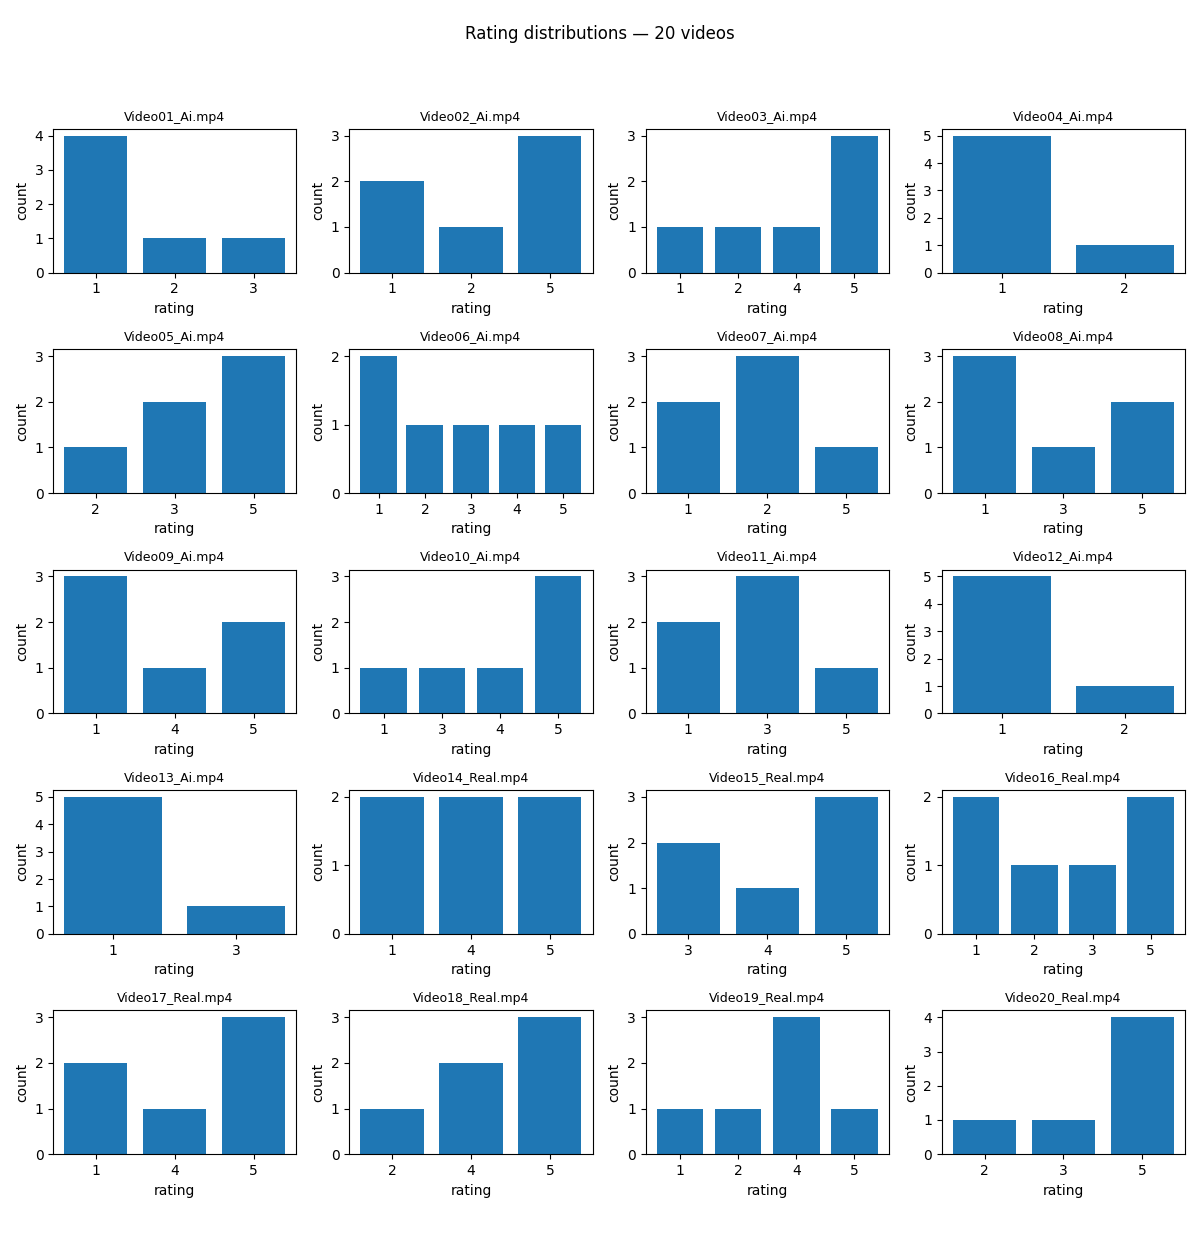
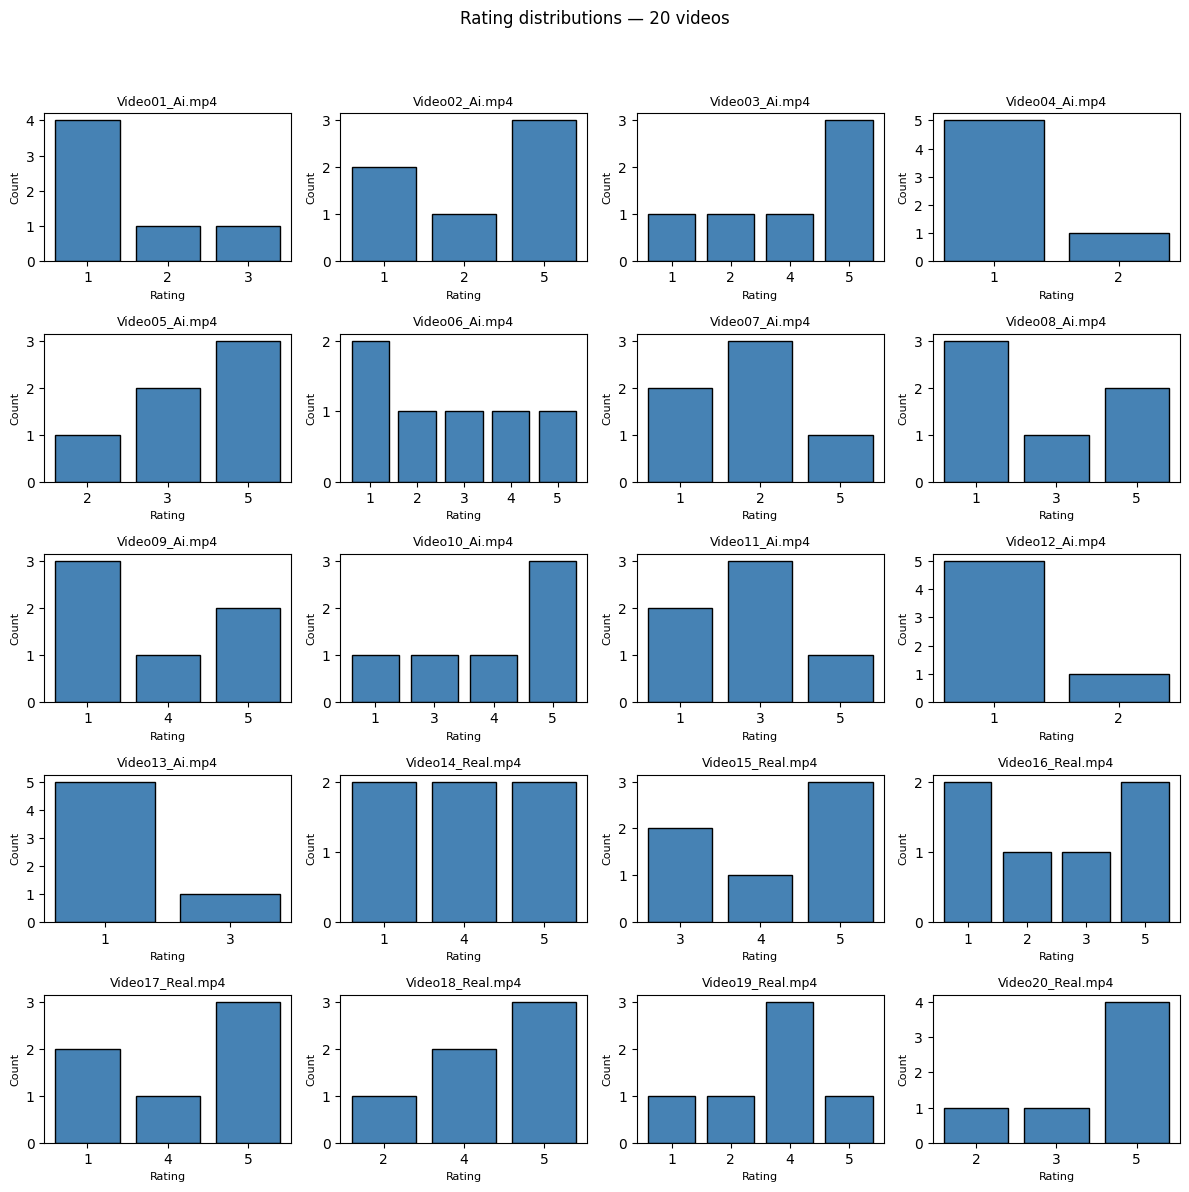
fix

diff --git a/script.py b/script.py
@@ -52,25 +52,22 @@ def main():
 		sys.exit(1)
 
 	rating_cols = [c for c in df.columns if c.lower() in ('rating', 'score')]
+	if rating_cols:
 		rating_col = rating_cols[0]
 	else:
-		print('Could not find a rating column in CSV. Columns available:')
 		print('Could not find a rating column in CSV. Columns available:')
 		print(list(df.columns))
 		sys.exit(1)
 
 	os.makedirs(outdir, exist_ok=True)
-	os.makedirs(outdir, exist_ok=True)
 
 	df['_rating_numeric'] = pd.to_numeric(df[rating_col], errors='coerce')
+	df['_rating_is_numeric'] = df[rating_col].notna() & (pd.to_numeric(df[rating_col], errors='coerce').notna())
 	videos = df[video_col].unique()
 
-	videos = df[video_col].unique()
-
-	def _extract_num(s):1)) if m else float('inf')
-
-	video_list = sorted(list(videos), key=lambda v: (_extract_num(v), str(v).lower()))
-	print(f'Found {len(video_list)} unique videos; writing combined plot to {outdir}/')
+	def _extract_num(s):
+		m = re.search(r'\d+', str(s))
+		return float(m.group(0)) if m else float('inf')
 
 	video_list = sorted(list(videos), key=lambda v: (_extract_num(v), str(v).lower()))
 	print(f'Found {len(video_list)} unique videos; writing combined plot to {outdir}/')
@@ -78,7 +75,10 @@ def main():
 	user_cols = [c for c in df.columns if c.lower() in ('uuid', 'user', 'user_id', 'participant', 'participant_id')]
 	user_col = user_cols[0] if user_cols else None
 
-	counts_per_video = []l] == vid].copy()
+	counts_per_video = []
+	non_numeric_counts = []
+	for vid in video_list:
+		sub = df[df[video_col] == vid].copy()
 		numeric = sub[sub['_rating_is_numeric']]
 		counts = numeric['_rating_numeric'].value_counts().sort_index()
 		counts_per_video.append(counts)
@@ -88,17 +88,16 @@ def main():
 		print('No videos found in CSV.')
 		print('Done.')
 		return
-	if not video_list:
-		print('No videos found in CSV.')
-		print('Done.')
-		return
 
-	summary = []meric > 0:
-			# weighted mean from counts (handles non-consecutive rating values)
+	summary = []
+	for i, vid in enumerate(video_list):
+		# weighted mean from counts (handles non-consecutive rating values)
 		counts = counts_per_video[i]
 		total_numeric = int(counts.sum()) if not counts.empty else 0
 		if total_numeric > 0:
-			idx = counts.index.astype(float).to_numpy()}" for k, v in counts.items())
+			idx = counts.index.astype(float).to_numpy()
+			mean_rating = float(sum(k * v for k, v in counts.items()) / total_numeric)
+			rating_counts_str = ', '.join([f"{k}: {v}" for k, v in counts.items()])
 		else:
 			mean_rating = float('nan')
 			rating_counts_str = ''
@@ -108,14 +107,12 @@ def main():
 		# If a user id was provided, try to extract the user's numeric rating for this video
 		user_val = None
 		if args.user and user_col:
-		non_numeric = non_numeric_counts[i]
-
-		user_val = None last numeric answer by timestamp if available
-		if args.user and user_col:
 			try:
 				user_sub = df[(df[video_col] == vid) & (df[user_col] == args.user)].copy()
 				if not user_sub.empty:
 					if 'timestamp' in user_sub.columns:
+						user_sub = user_sub.sort_values('timestamp')
+					user_numeric = user_sub[user_sub['_rating_is_numeric']]
 					if not user_numeric.empty:
 						user_val = float(user_numeric['_rating_numeric'].iloc[-1])
 			except Exception:
@@ -124,10 +121,11 @@ def main():
 		# Determine expected value: 1 for Ai, 5 for Real (case-insensitive)
 		name_lower = str(vid).lower()
 		if 'ai' in name_lower:
-			except Exception:
-				user_val = None
-
-		name_lower = str(vid).lower()
+			expected = 1
+		elif 'real' in name_lower:
+			expected = 5
+		else:
+			expected = None
 
 		summary.append({
 			'video': vid,
@@ -146,66 +144,46 @@ def main():
 		summary_df = summary_df.sort_values('video')
 
 		# Convert expected to numeric where possible, then compute absolute difference using means
-	try:
-		summary_df = pd.DataFrame(summary)
-		summary_df = summary_df.sort_values('video')
+		summary_df['expected_num'] = pd.to_numeric(summary_df['expected'], errors='coerce')
+		summary_df['abs_diff'] = (summary_df['mean_rating'] - summary_df['expected_num']).abs().round(3)
+
 		# Select and print table
 		if args.user:
 			# compute per-video abs diff for the user (NaN if user didn't answer)
-		summary_df['expected_num'] = pd.to_numeric(summary_df['expected'], errors='coerce')
-		summary_df['abs_diff'] = (summary_df['mean_rating'] - summary_df['expected_num']).abs().round(3)
-			out_df = summary_df[['video', 'user_rating_num', 'expected', 'user_abs_diff']]
-			out_df = out_df.rename(columns={'user_rating_num': 'user_rating', 'user_abs_diff': 'abs_diff_user'})
-		if args.user:
 			summary_df['user_rating_num'] = pd.to_numeric(summary_df['user_rating'], errors='coerce')
-			out_df = summary_df[['video', 'mean_rating', 'expected', 'abs_diff']]
 			summary_df['user_abs_diff'] = (summary_df['user_rating_num'] - summary_df['expected_num']).abs().round(3)
 			out_df = summary_df[['video', 'user_rating_num', 'expected', 'user_abs_diff']]
-		# If a user was specified, compute comparison between user and all people
-		if args.user:
+			out_df = out_df.rename(columns={'user_rating_num': 'user_rating', 'user_abs_diff': 'abs_diff_user'})
 			print('\nSummary table (user answers):')
 			print(out_df.to_string(index=False))
 		else:
 			out_df = summary_df[['video', 'mean_rating', 'expected', 'abs_diff']]
-				mean_diff = None
+			print('\nSummary table:')
+			print(out_df.to_string(index=False))
 
-			# total for the user: use user's rating where present, otherwise fall back to mean (same as displayed)
+		# If a user was specified, compute comparison between user and all people
 		if args.user:
-			mean_diff = (summary_df['mean_rating'] - summary_df['expected_num']).abs().sum(skipna=True)
+			mean_diff = (summary_df['abs_diff']).sum()
+			user_diff = None
+			if 'user_rating' in summary_df.columns:
+				user_series = summary_df['user_rating'].copy()
 				user_series = user_series.fillna(summary_df['mean_rating'])
 				user_diff = (user_series - summary_df['expected_num']).abs().sum(skipna=True)
 				try:
 					user_diff = float(user_diff)
-			except Exception:
-				mean_diff = None
+				except Exception:
+					user_diff = None
 
-			if 'user_rating' in summary_df.columns:
 			if mean_diff is not None:
-			if 'user_rating' in summary_df.columns:
-				user_series = summary_df['user_rating'].copy()
-				user_series = user_series.fillna(summary_df['mean_rating'])
+				print(f"Total abs_diff (mean): {round(mean_diff,3)}")
+			else:
+				print("Total abs_diff (mean): N/A")
+
 			if user_diff is not None:
 				print(f"Total abs_diff (user {args.user}): {round(user_diff,3)}")
 			else:
 				print(f"Total abs_diff (user {args.user}): N/A")
 
-			else:
-				user_diff = None
-
-			if mean_diff is not None:nt summary table:', e)
-
-	# Layout: choose number of columns, compute rows
-	cols = 4
-	n = len(video_list)
-	rows = math.ceil(n / cols)
-
-	fig, axes = plt.subplots(rows, cols, figsize=(cols * 3, max(2.5 * rows, 4)))
-	# flatten axes array for easy indexing
-	axes_flat = axes.flatten() if hasattr(axes, 'flatten') else [axes]
-
-	for i, vid in enumerate(video_list):
-		ax = axes_flat[i]
-		counts = counts_per_video[i]
 	except Exception as e:
 		print('Failed to build/print summary table:', e)
 
@@ -215,13 +193,21 @@ def main():
 
 	fig, axes = plt.subplots(rows, cols, figsize=(cols * 3, max(2.5 * rows, 4)))
 	axes_flat = axes.flatten() if hasattr(axes, 'flatten') else [axes]
-			ax.text(0.5, 0.5, 'No numeric ratings', ha='center', va='center')
 
-		# show short title and note if any non-numeric were omitted
+	for i, vid in enumerate(video_list):
+		ax = axes_flat[i]
+		counts = counts_per_video[i]
+		if counts.empty:
+			ax.text(0.5, 0.5, 'No numeric ratings', ha='center', va='center')
+		else:
+			ax.bar(counts.index.astype(str), counts.values, color='steelblue', edgecolor='black')
+			ax.yaxis.set_major_locator(MaxNLocator(integer=True))
+			ax.set_xlabel('Rating', fontsize=8)
+			ax.set_ylabel('Count', fontsize=8)
+
 		note = f' ({non_numeric_counts[i]} non-numeric omitted)' if non_numeric_counts[i] > 0 else ''
 		ax.set_title(f'{vid}{note}', fontsize=9)
 
-	# Turn off any unused subplots
 	for j in range(n, len(axes_flat)):
 		axes_flat[j].axis('off')
 
@@ -230,18 +216,15 @@ def main():
 
 	out_path = os.path.join(outdir, 'all_distributions.png')
 	try:
-		else:
-			ax.text(0.5, 0.5, 'No numeric ratings', ha='center', va='center')
+		fig.savefig(out_path, dpi=100, bbox_inches='tight')
+		print(f'Saved: {out_path}')
+	except Exception as e:
+		print(f'Failed to save plot: {e}')
 
-		note = f' ({non_numeric_counts[i]} non-numeric omitted)' if non_numeric_counts[i] > 0 else ''
-		ax.set_title(f'{vid}{note}', fontsize=9)
+	if args.show:
+		plt.show()
 
-	for j in range(n, len(axes_flat)):
 	print('Done.')
 
-
-	fig.suptitle(f'Rating distributions — {n} videos')
-	fig.tight_layout(rect=[0, 0.03, 1, 0.95])
-
-	out_path = os.path.join(outdir, 'all_distributions.png')
-	try:
+if __name__ == '__main__':
+	main()
